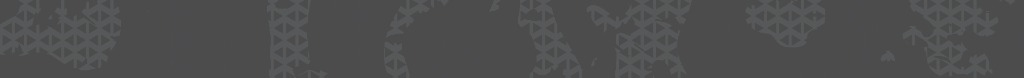
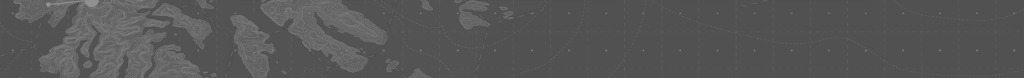
feat(storefront): update serial scanner background texture with 60% opacity

Changed region(s): [[0.0, 0.0, 0.4062, 1.0], [0.4062, 0.0, 0.5, 0.359], [0.375, 0.8974, 0.4375, 1.0]]

diff --git a/src/app/globals.css b/src/app/globals.css
@@ -372,18 +372,35 @@
 }
 
 .home-verify__panel {
+  position: relative;
   width: min(880px, 100%);
   display: flex;
   flex-direction: column;
   justify-content: flex-start;
   align-items: center;
-  border: 1px solid rgba(255, 255, 255, 0.1);
-  background: rgba(11, 12, 14, 0.68);
+  border: 1px solid rgba(255, 255, 255, 0.12);
+  background-color: #0b0c0e;
   backdrop-filter: blur(8px);
   padding: clamp(32px, 3.5vw, 48px) clamp(20px, 3vw, 48px);
   text-align: center;
   box-shadow: 0 20px 50px rgba(0, 0, 0, 0.6);
   border-radius: var(--store-radius-lg);
+  overflow: hidden;
+}
+
+.home-verify__panel::before {
+  content: "";
+  position: absolute;
+  inset: 0;
+  background: url("/storefront/scanner-bg.jpg") center / cover no-repeat;
+  opacity: 0.6;
+  pointer-events: none;
+  z-index: 0;
+}
+
+.home-verify__panel > * {
+  position: relative;
+  z-index: 1;
 }
 
 .home-verify__panel > h1 {
